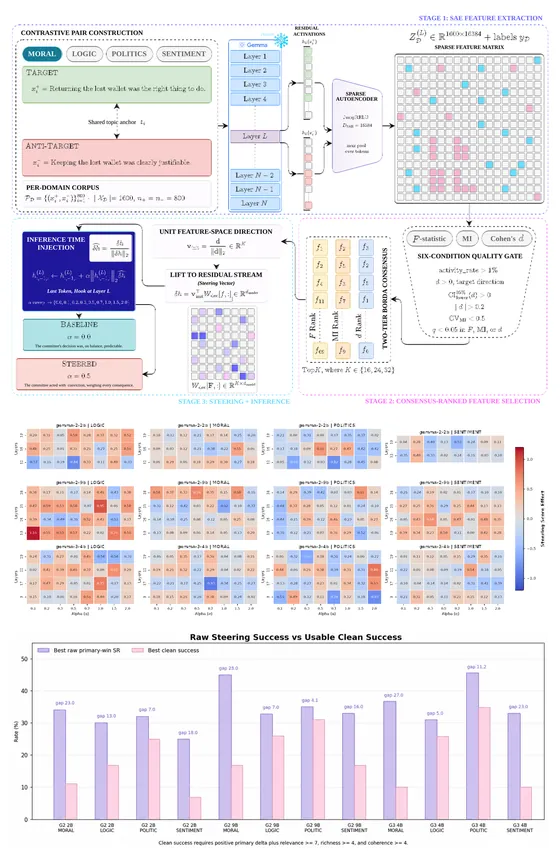
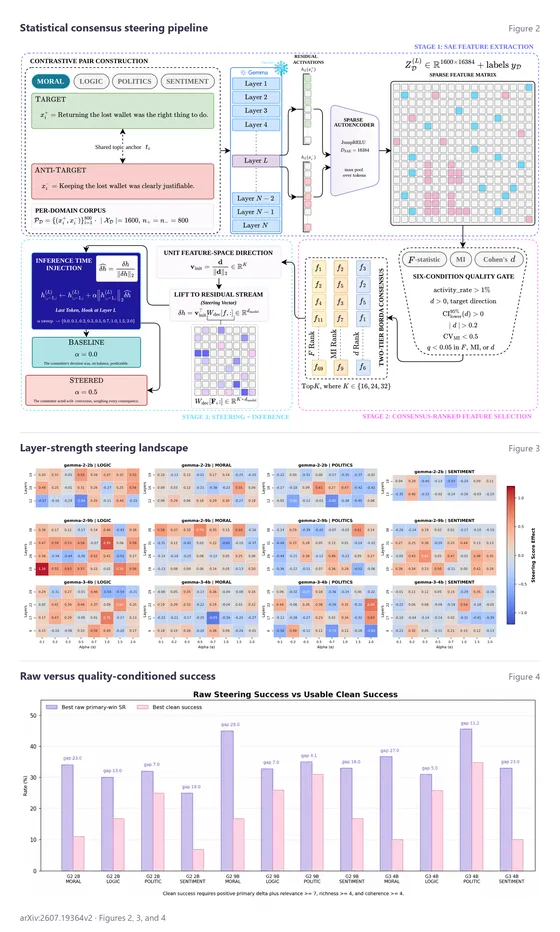
Updated SAE-StatSteer paper info

diff --git a/_publications/12-sparsefeatureinterventions.md b/_publications/12-sparsefeatureinterventions.md
@@ -1,5 +1,5 @@
 ---
-title: "Statistically Grounded Sparse-Feature Interventions for Activation-Space Control in Large Language Models"
+title: "SAE-StatSteer: Statistical Consensus Feature Selection for Optimization-Free Activation Steering of Large Language Models"
 collection: publications
 type: preprints
 permalink: /publications/12-sparsefeatureinterventions
@@ -9,21 +9,21 @@ paperurl: 'https://arxiv.org/abs/2607.19364'
 pdfurl: 'https://arxiv.org/pdf/2607.19364'
 codedata: 'https://github.com/Oshayer-Siddique/SAE-STATSTEER'
 doi: 'https://doi.org/10.48550/arXiv.2607.19364'
-citation: 'O. Siddique, J. M. A. U. Alam, M. J. R. Rafy, S. R. Raiyan, H. Mahmud and M. K. Hasan, "Statistically Grounded Sparse-Feature Interventions for Activation-Space Control in Large Language Models," arXiv preprint arXiv:2607.19364, 2026.'
+citation: 'O. Siddique, J. M. A. U. Alam, M. J. R. Rafy, S. R. Raiyan, H. Mahmud and M. K. Hasan, "SAE-StatSteer: Statistical Consensus Feature Selection for Optimization-Free Activation Steering of Large Language Models," arXiv preprint arXiv:2607.19364, 2026.'
 authors: 'Oshayer Siddique†, J. M Areeb Uzair Alam†, Md Jobayer Rahman Rafy†, <b>Syed Rifat Raiyan</b>†, Hasan Mahmud, Md Kamrul Hasan.'
-bibtex: '@article{siddique2026statistically,<br>
-      &emsp;&emsp;&emsp;&emsp;title={Statistically Grounded Sparse-Feature Interventions for Activation-Space Control in Large Language Models},<br>
+bibtex: '@article{siddique2026saestatsteer,<br>
+      &emsp;&emsp;&emsp;&emsp;title={SAE-StatSteer: Statistical Consensus Feature Selection for Optimization-Free Activation Steering of Large Language Models},<br>
       &emsp;&emsp;&emsp;&emsp;author={Siddique, Oshayer and Alam, J. M Areeb Uzair and Rafy, Md Jobayer Rahman and Raiyan, Syed Rifat and Mahmud, Hasan and Hasan, Md Kamrul},<br>
       &emsp;&emsp;&emsp;&emsp;journal={arXiv preprint arXiv:2607.19364},<br>
       &emsp;&emsp;&emsp;&emsp;year={2026}<br>
 }'
-bibtexraw: "@article{siddique2026statistically,\\n
-                  title={Statistically Grounded Sparse-Feature Interventions for Activation-Space Control in Large Language Models},\\n
+bibtexraw: "@article{siddique2026saestatsteer,\\n
+                  title={SAE-StatSteer: Statistical Consensus Feature Selection for Optimization-Free Activation Steering of Large Language Models},\\n
                   author={Siddique, Oshayer and Alam, J. M Areeb Uzair and Rafy, Md Jobayer Rahman and Raiyan, Syed Rifat and Mahmud, Hasan and Hasan, Md Kamrul},\\n
                   journal={arXiv preprint arXiv:2607.19364},\\n
                   year={2026}\\n}"
-bibtexprettify: "@article{siddique2026statistically,\n
-      &emsp;&emsp;&emsp;&emsp;title={Statistically Grounded Sparse-Feature Interventions for Activation-Space Control in Large Language Models},\n
+bibtexprettify: "@article{siddique2026saestatsteer,\n
+      &emsp;&emsp;&emsp;&emsp;title={SAE-StatSteer: Statistical Consensus Feature Selection for Optimization-Free Activation Steering of Large Language Models},\n
       &emsp;&emsp;&emsp;&emsp;author={Siddique, Oshayer and Alam, J. M Areeb Uzair and Rafy, Md Jobayer Rahman and Raiyan, Syed Rifat and Mahmud, Hasan and Hasan, Md Kamrul},\n
       &emsp;&emsp;&emsp;&emsp;journal={arXiv preprint arXiv:2607.19364},\n
       &emsp;&emsp;&emsp;&emsp;year={2026}\n
@@ -36,5 +36,5 @@ teaser: "sparse_feature_interventions_teaser.png"
 ---
 <u>Authors:</u> Oshayer Siddique†, J. M Areeb Uzair Alam†, Md Jobayer Rahman Rafy†, **Syed Rifat Raiyan**†, Hasan Mahmud, Md Kamrul Hasan.
 <br>
-<u>Abstract:</u> Activation steering offers a lightweight alternative to fine-tuning for behavioral control of large language models, but SAE-based steering methods often rely on learned steering objectives or single-criterion feature selection. We introduce a transparent SAE-feature steering pipeline that first applies a six-condition reliability filter, then ranks sparse features through an unweighted Borda consensus over three complementary statistics: F-test, KSG mutual information, and Cohen's $d$. The resulting steering direction is constructed as a Cohen's-$d$-weighted combination of SAE decoder rows, providing an optimization-free direction motivated by Fisher-LDA under approximate SAE-feature decorrelation. Across three Gemma-family models, four behavioral domains, and 356 layer-strength configurations, the method produces measurable domain-specific shifts while revealing a substantial gap between raw attribute movement and quality-preserving generation. In the strongest configuration, logical-correctness steering reaches a primary-score delta of $+1.16$ in Gemma 2 9B; however, our broader finding is that usable steering is highly localized by model, domain, layer, and strength. These results argue that activation-steering evaluations should report quality-conditioned success alongside raw behavioral shift. Our code and data are available at <a href="https://github.com/Oshayer-Siddique/SAE-STATSTEER">this https URL</a>.
+<u>Abstract:</u> Activation steering adds a residual-stream direction at inference time, providing lightweight behavioral control without fine-tuning. Sparse autoencoders (SAEs) can make such interventions auditable by decomposing dense activations into an approximately monosemantic feature basis. We introduce SAE-StatSteer, a transparent, optimization-free pipeline. It first filters features through six reliability conditions, then ranks the survivors by an unweighted Borda consensus over three statistics, an $F$-test, KSG mutual information, and Cohen's $d$, and finally combines the selected SAE decoder rows using Cohen's-$d$ weights. We evaluate three Gemma-family models across four behavioral domains against seven dense or SAE-based baselines. Our quality-conditioned protocol requires attribute movement while preserving relevance, richness, and coherence. Raw success systematically overstates usable control because strong shifts often degrade generation quality, and effective steering is not governed by a universal layer or strength. SAE-StatSteer remains competitive with optimization-based methods while exposing every selection and weighting decision for audit. These results motivate reporting quality-conditioned success alongside raw behavioral shift. Our code and data are available at <a href="https://github.com/Oshayer-Siddique/SAE-STATSTEER">https://github.com/Oshayer-Siddique/SAE-STATSTEER</a>.
 <br>

diff --git a/docs/publication-teasers.md b/docs/publication-teasers.md
@@ -11,7 +11,7 @@ BibTeX stays in the same three front-matter forms as the earlier entries.
 Full-size teaser PNGs live in `images/`, using the existing `_teaser` suffix.
 The new teasers combine original figures rendered directly from the papers;
 axes, values, labels, and legends are not recreated or modified.
-All three omit the redundant publication title/subtitle block while retaining
+These teasers omit the redundant publication title/subtitle block while retaining
 their figure-specific labels and qualification notes.
 
 - PROClaim: the courtroom overview (Figure 1), evidence-novelty plot
@@ -27,6 +27,11 @@ their figure-specific labels and qualification notes.
   redundant publication title/subtitle block is omitted. The result
   panel is labeled as unadjusted preference rates with ties excluded; it must
   not be described as length-adjusted or as percentages of all judgments.
+- SAE-StatSteer: the statistical consensus steering pipeline (Figure 2),
+  layer-strength steering landscape (Figure 3), and raw versus
+  quality-conditioned success (Figure 4), stacked in that order. All three
+  panels come from arXiv:2607.19364v2; the existing
+  `sparse_feature_interventions_teaser` asset name stays stable.
 
 `_data/publication_teasers.yml` records versioned PDF URLs, zero-based page
 indices, and crop rectangles in PDF points. To reproduce the PNGs, install
@@ -38,8 +43,9 @@ python scripts/thumbnails.py
 ```
 
 For existing downloads, pass `--source-dir` with a folder containing PDFs
-named `proclaim.pdf`, `marsgps.pdf`, or `nonlinear_storytelling.pdf`. Use
-`--paper proclaim`, `--paper marsgps`, or `--paper nonlinear_storytelling`
+named `proclaim.pdf`, `marsgps.pdf`, `nonlinear_storytelling.pdf`, or
+`sae_statsteer.pdf`. Use `--paper proclaim`, `--paper marsgps`,
+`--paper nonlinear_storytelling`, or `--paper sae_statsteer`
 to rebuild one image. Segoe UI is used for the small image
 headings on Windows, with DejaVu Sans as the portable fallback. The original
 paper figures retain their own fonts.
